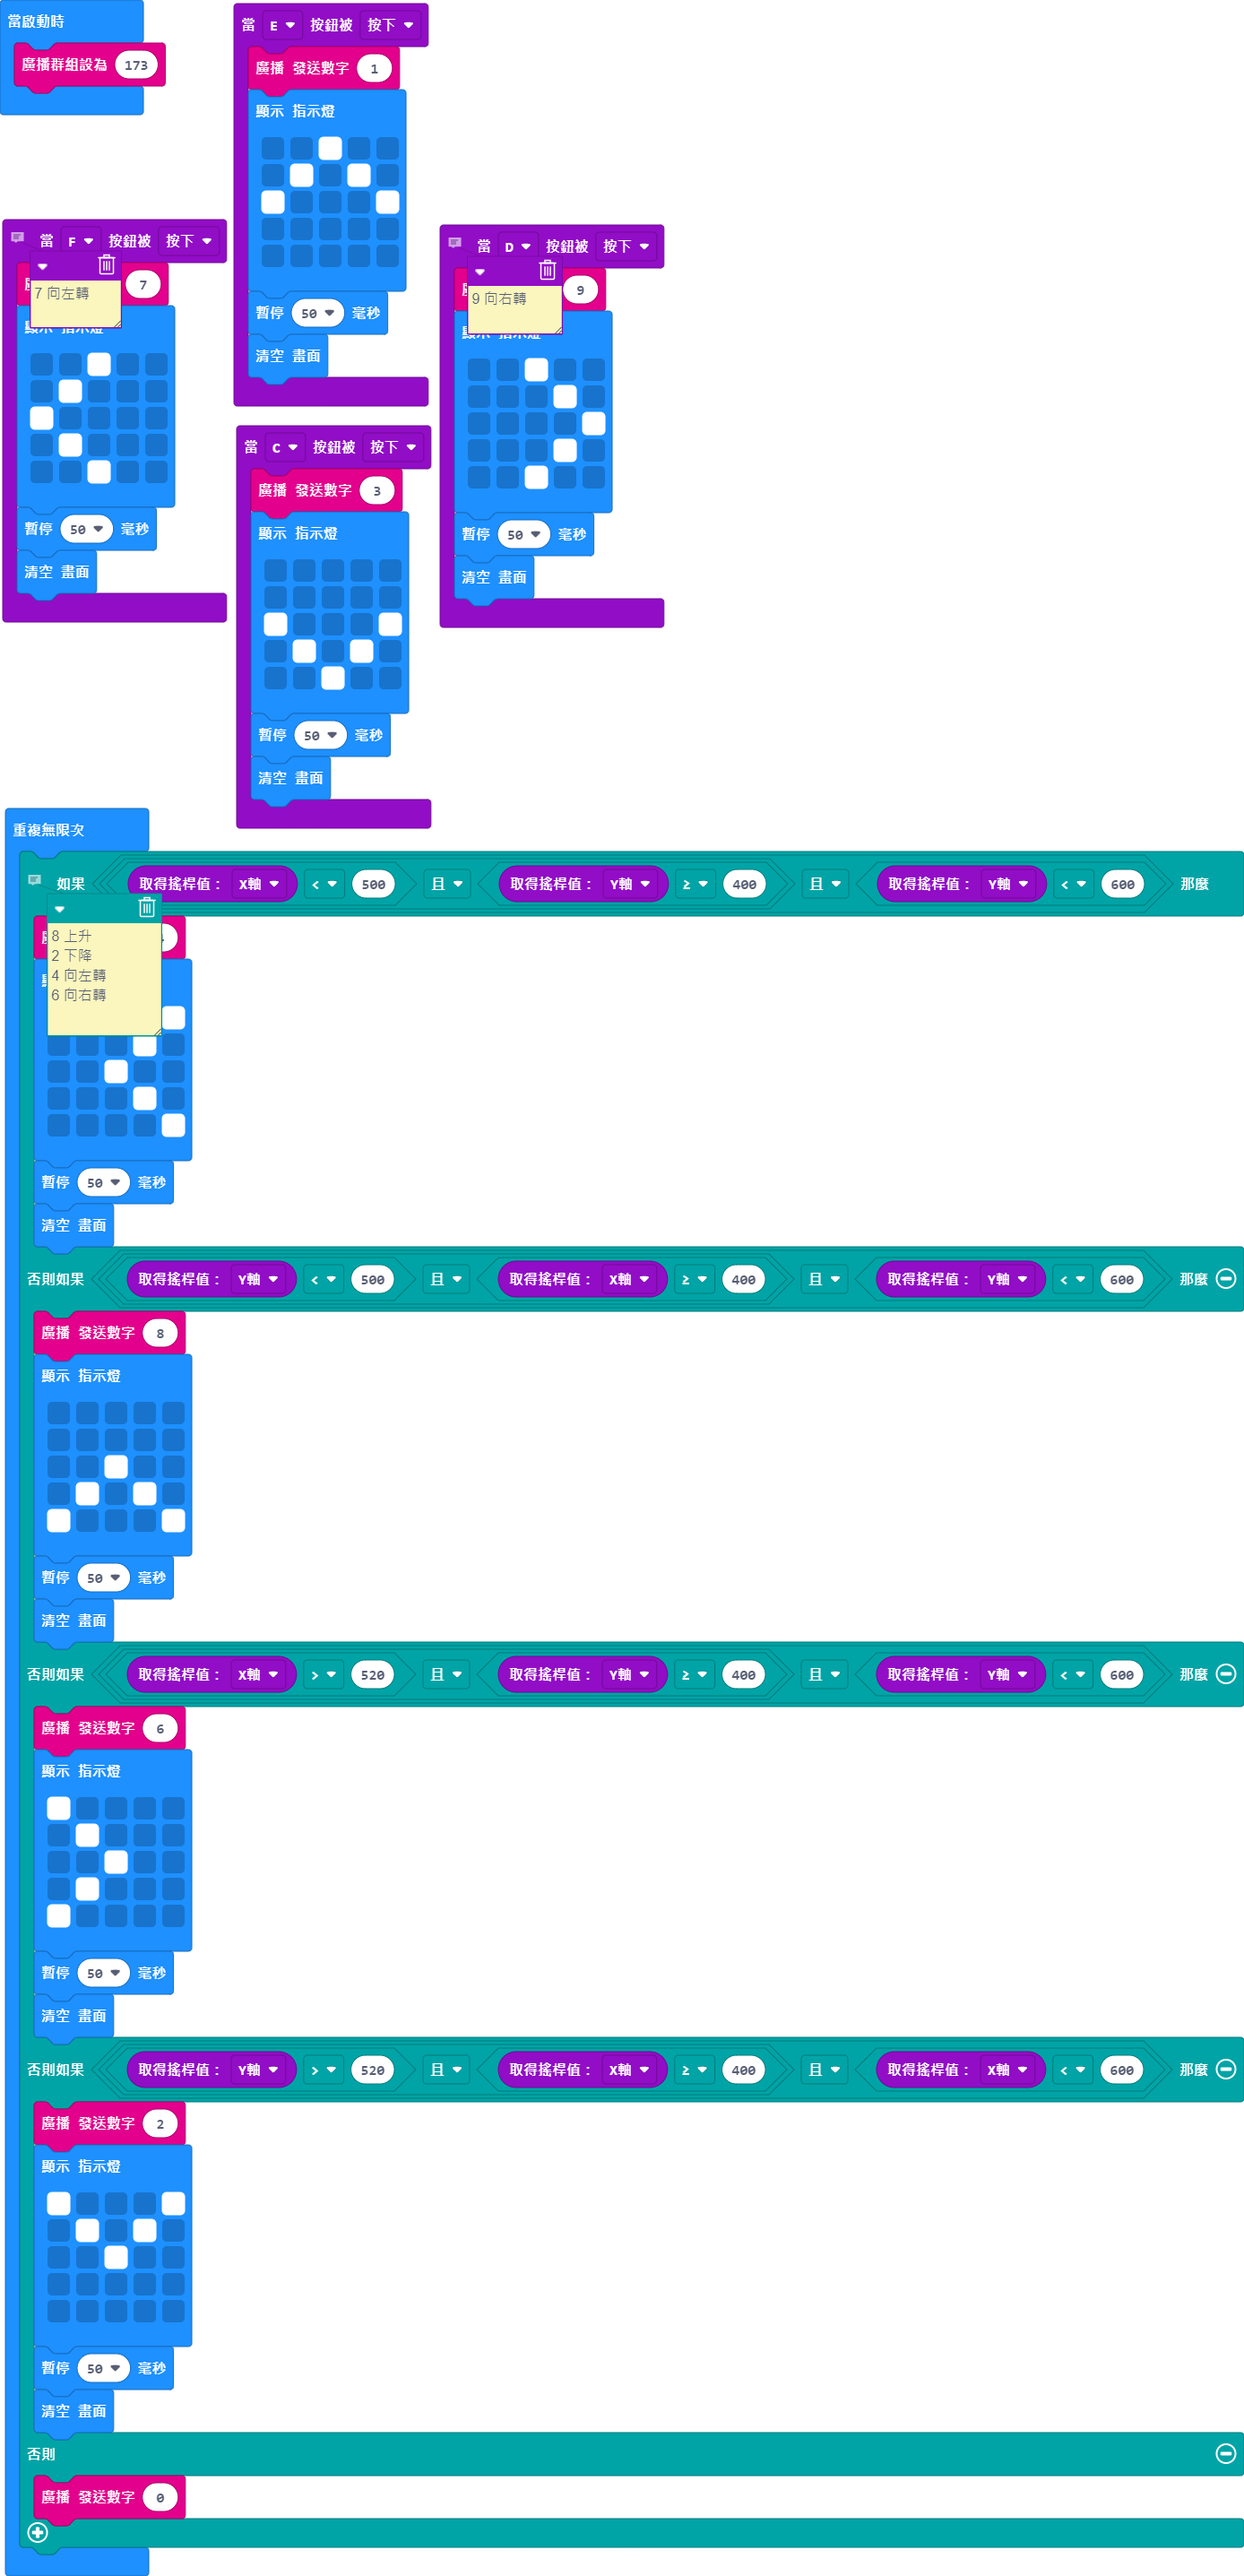
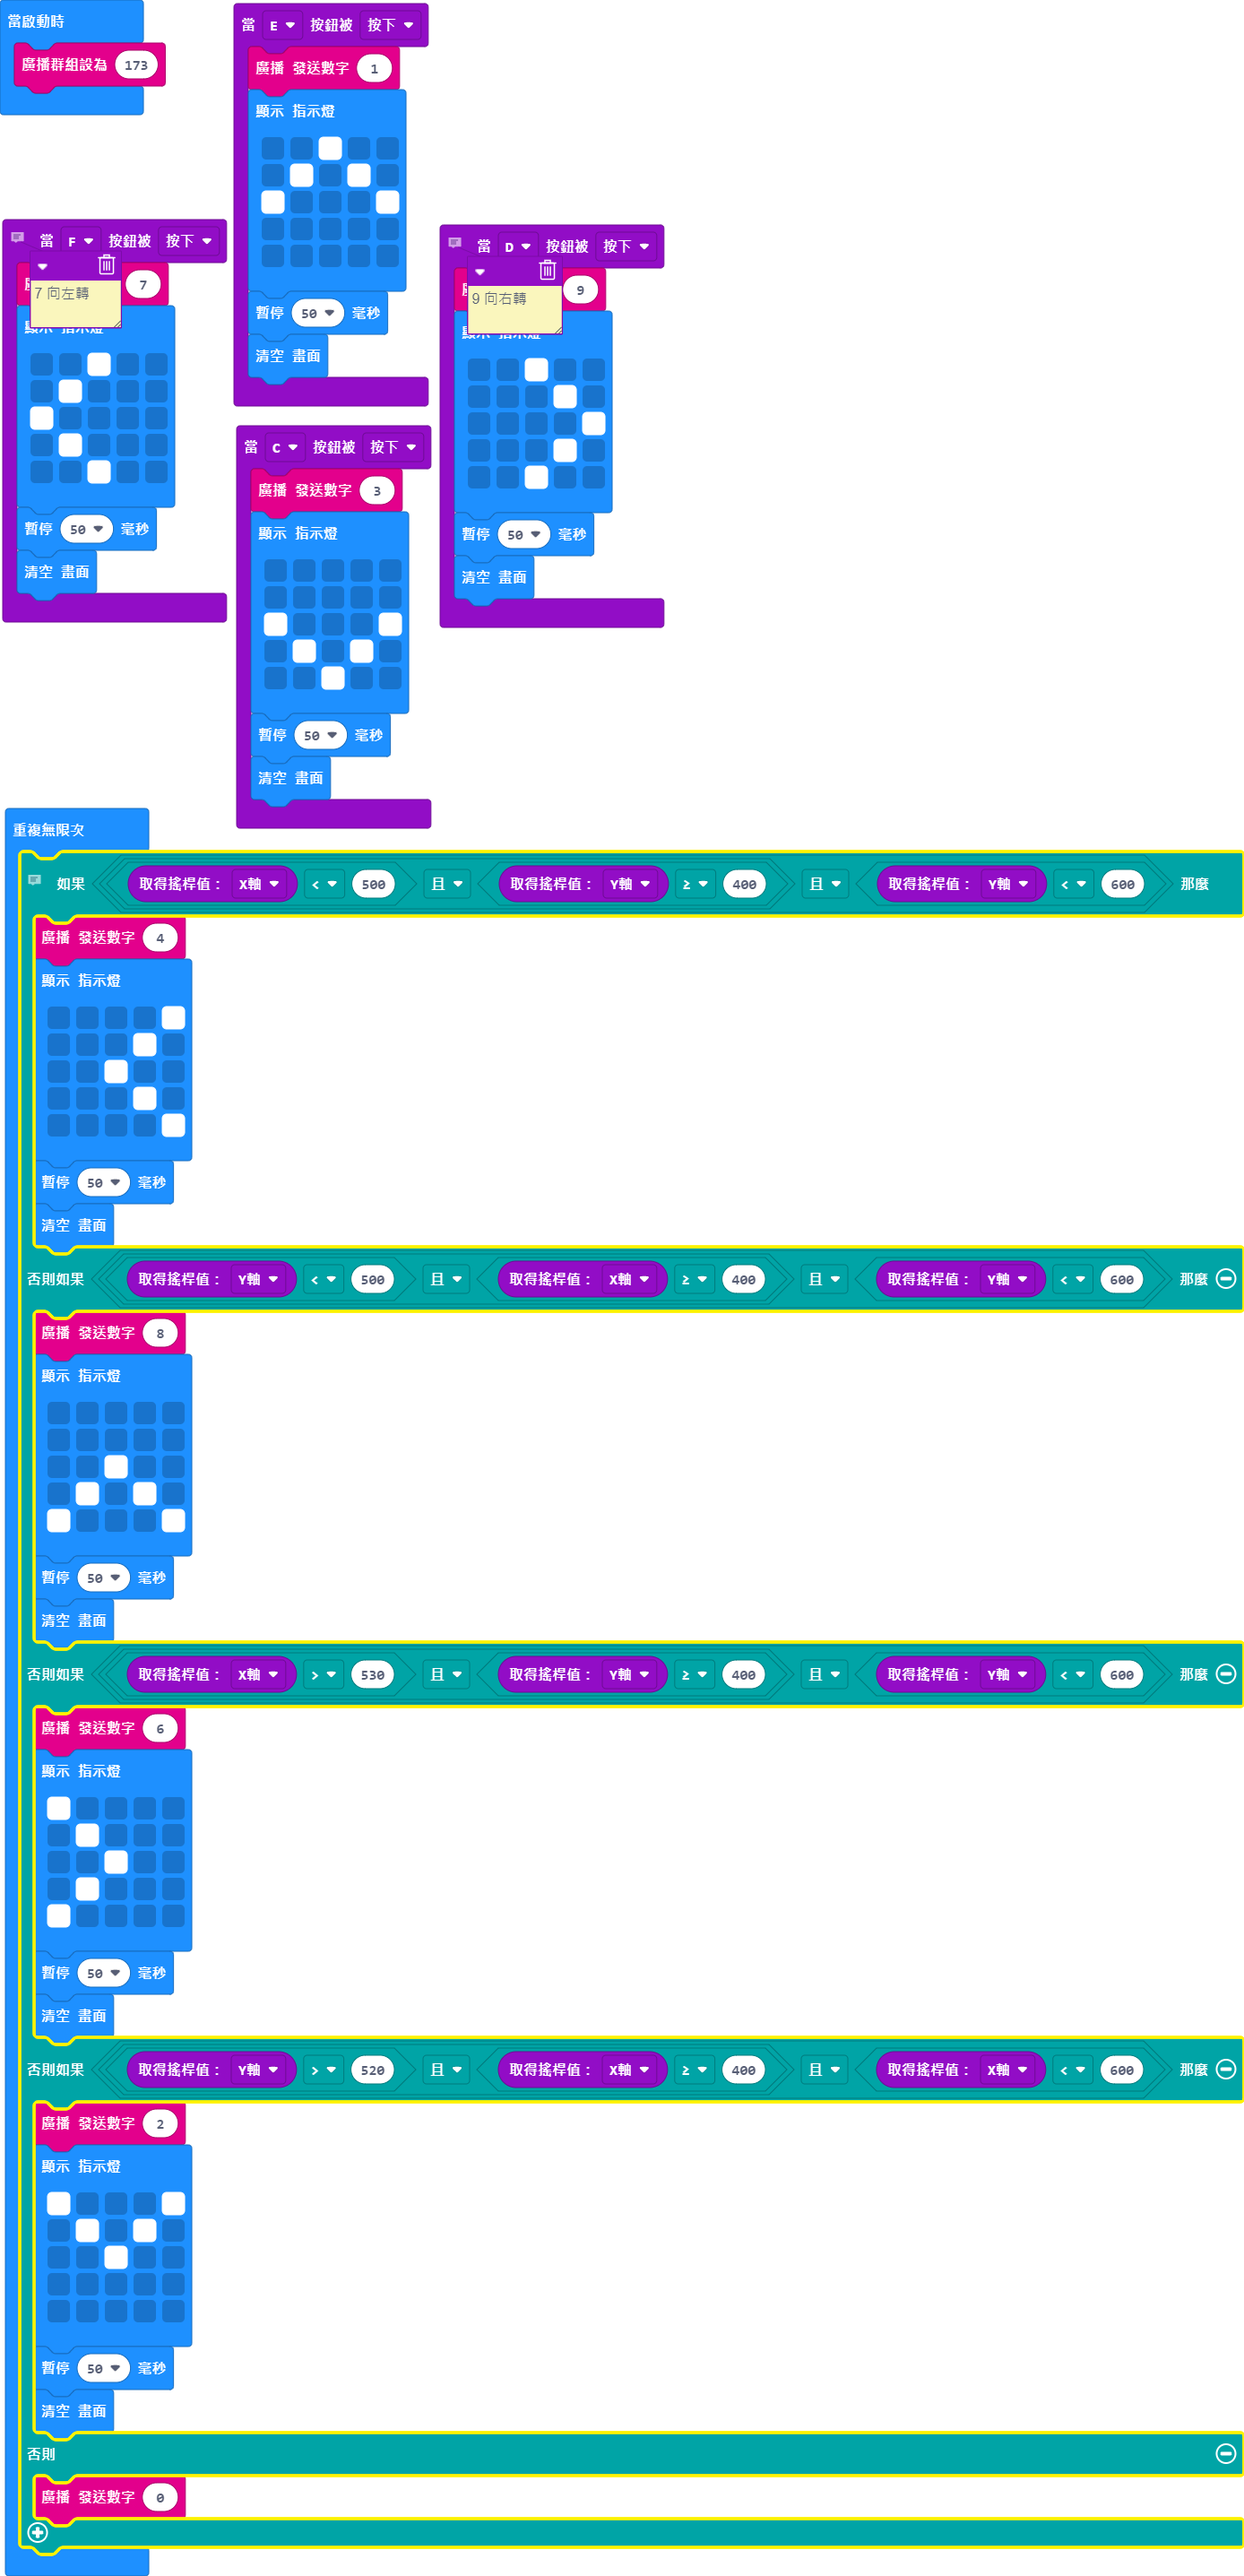
更新 main.blocks, main.ts

diff --git a/main.ts b/main.ts
@@ -76,7 +76,7 @@ basic.forever(function () {
             `)
         basic.pause(50)
         basic.clearScreen()
-    } else if (KSB045.getJoystickValue(KSB045.valueType.X) > 520 && KSB045.getJoystickValue(KSB045.valueType.Y) >= 400 && KSB045.getJoystickValue(KSB045.valueType.Y) < 600) {
+    } else if (KSB045.getJoystickValue(KSB045.valueType.X) > 530 && KSB045.getJoystickValue(KSB045.valueType.Y) >= 400 && KSB045.getJoystickValue(KSB045.valueType.Y) < 600) {
         radio.sendNumber(6)
         basic.showLeds(`
             # . . . .
